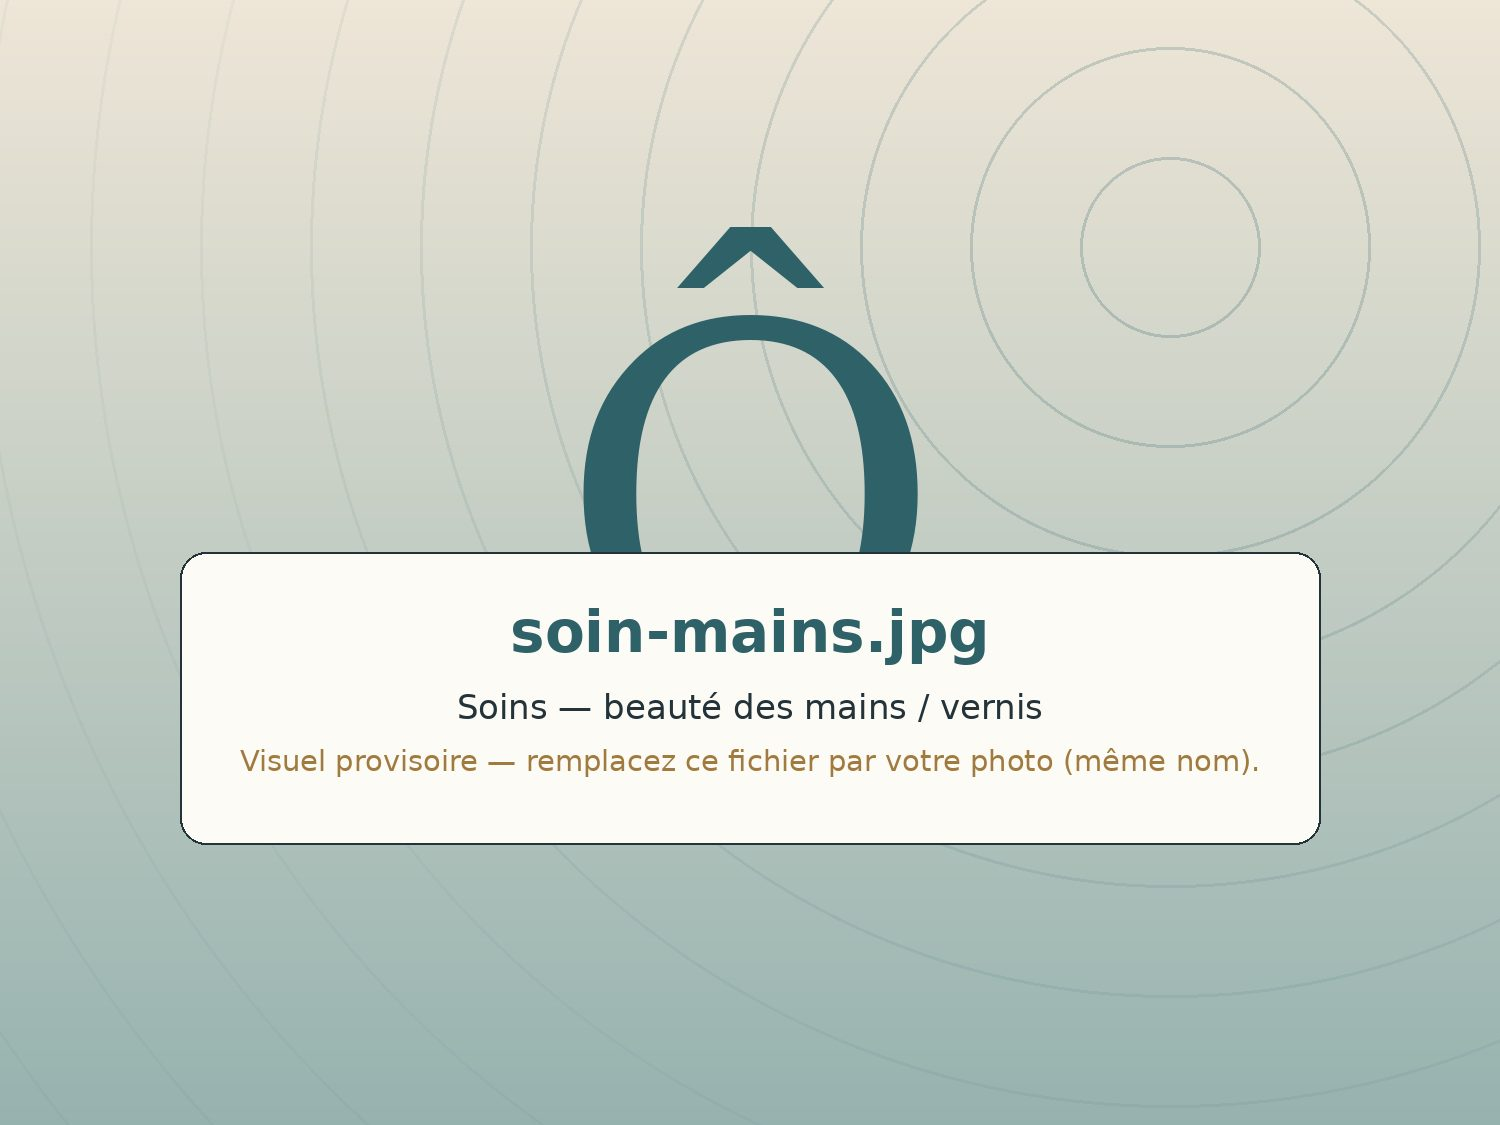
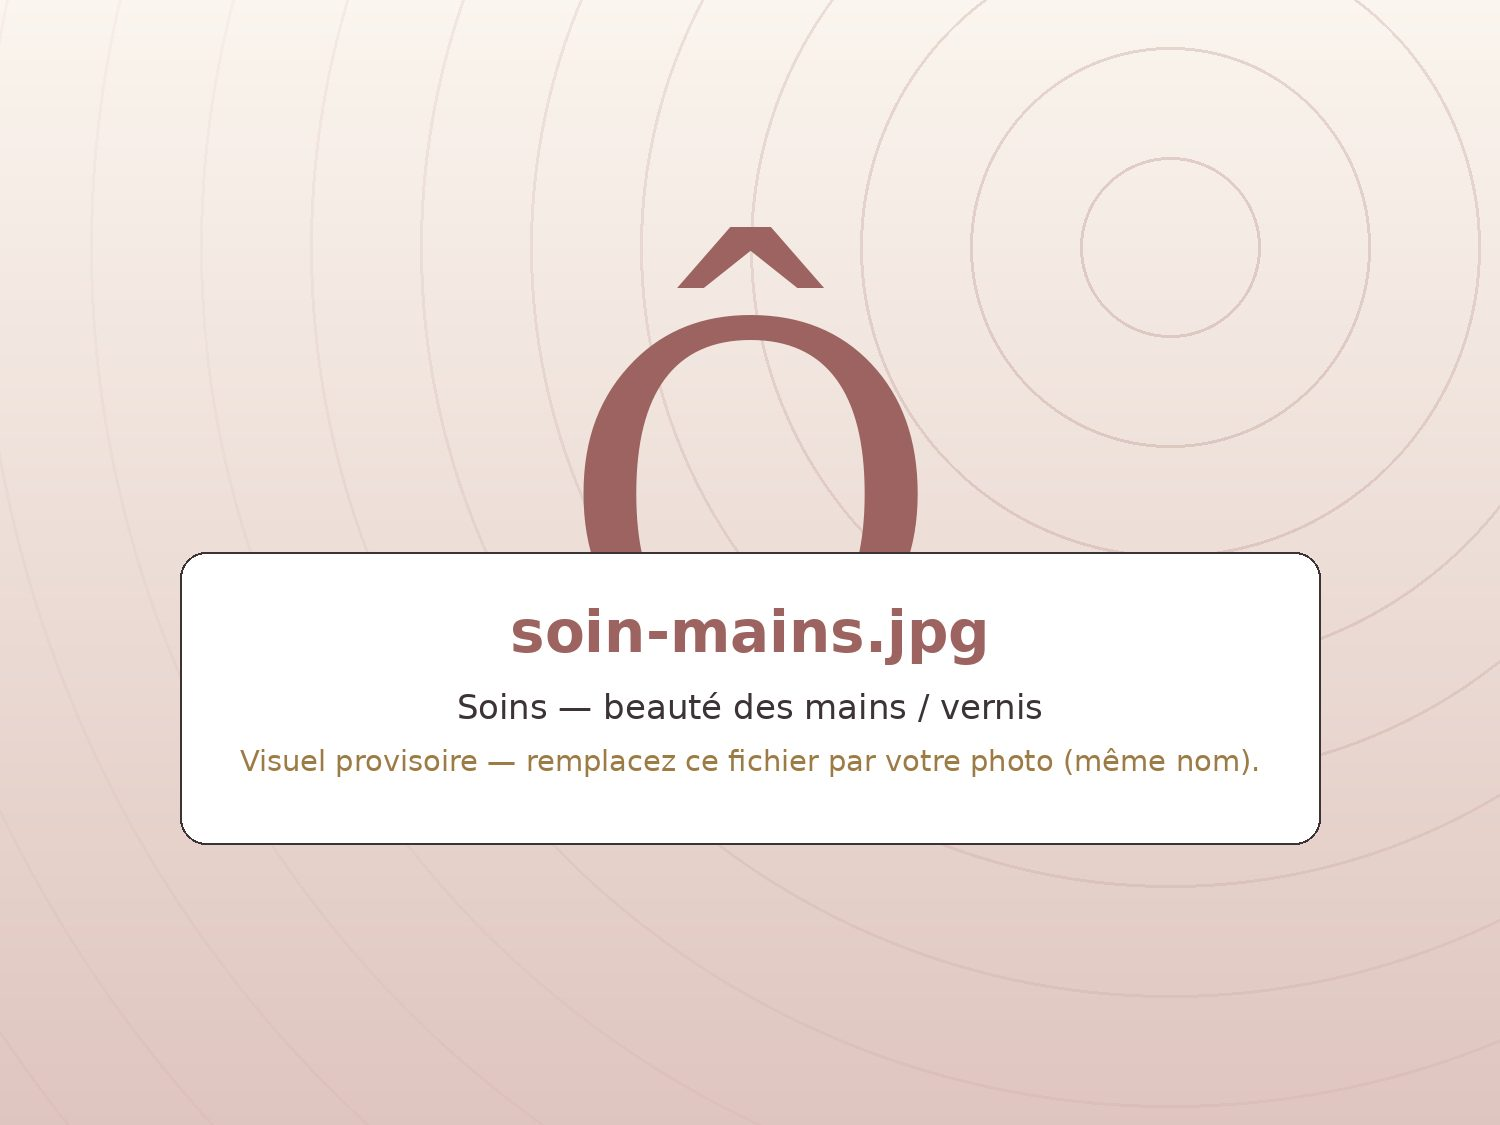
Palette « quartz, crème & blanc »
- Jetons de couleur : fond blanc crème, cartes blanc pur, sections
  « quartz voilé », texte quartz fumé, accent quartz rose, or champagne
- Mode sombre décliné en « quartz fumé » (brun-rose profond)
- Pied de page brun quartz, favicon et visuels provisoires assortis
- Robustesse : marges par défaut des <figure> réinitialisées, hauteur
  des photos en auto (l'aspect-ratio pilote le recadrage)

Claude-Session: https://claude.ai/code/session_01KHfXKJBJfizCz2Q4WucXuv

diff --git a/assets/css/style.css b/assets/css/style.css
@@ -1,6 +1,6 @@
 /* ==========================================================================
    Ô SUBLIME — institut de beauté & spa privatif, Jallais (Beaupréau-en-Mauges)
-   Design « Lin & eau profonde » : spa lumineux, minéral, chaleureux.
+   Design « Quartz, crème & blanc » : spa lumineux, poudré, minéral.
    --------------------------------------------------------------------------
    Toute la palette se règle ici. Le site suit le réglage clair/sombre de
    l'appareil (prefers-color-scheme) ; le mode clair est la référence.
@@ -8,18 +8,18 @@
 
 :root {
   /* — Palette (mode clair) — */
-  --paper: #F6F1E8;        /* fond : lin chaud                  */
-  --paper-2: #EEE6D7;      /* sections alternées                */
-  --card: #FDFBF5;         /* cartes, panneaux                  */
-  --ink: #24333A;          /* texte : bleu-noir d'eau profonde  */
-  --soft: #52646B;         /* texte secondaire                  */
-  --accent: #2F6169;       /* eau profonde : boutons, liens     */
-  --accent-2: #24505A;     /* survol                            */
-  --on-accent: #F8F5EE;    /* texte posé sur l'accent           */
-  --brass: #A07A3E;        /* laiton : kickers, numéros, filets */
-  --line: rgba(36, 51, 58, .16);
-  --halo: rgba(47, 97, 105, .10);
-  --shadow: 0 18px 40px -18px rgba(36, 51, 58, .28);
+  --paper: #FBF8F3;        /* fond : blanc crème                    */
+  --paper-2: #F5EBE6;      /* sections alternées : quartz voilé     */
+  --card: #FFFFFF;         /* cartes, panneaux : blanc pur          */
+  --ink: #3B3336;          /* texte : quartz fumé profond           */
+  --soft: #756A6D;         /* texte secondaire                      */
+  --accent: #9C6361;       /* quartz rose profond : boutons, liens  */
+  --accent-2: #84504F;     /* survol                                */
+  --on-accent: #FFF9F5;    /* texte posé sur l'accent               */
+  --brass: #9C7B45;        /* or champagne : kickers, numéros       */
+  --line: rgba(59, 51, 54, .15);
+  --halo: rgba(156, 99, 97, .09);
+  --shadow: 0 18px 40px -18px rgba(59, 51, 54, .26);
 
   /* — Typographies — */
   --serif: "Cormorant Garamond", "Georgia", serif;
@@ -36,17 +36,17 @@
 
 @media (prefers-color-scheme: dark) {
   :root {
-    --paper: #101B1E;
-    --paper-2: #0C1518;
-    --card: #17262A;
-    --ink: #EDE6D8;
-    --soft: #9FB0B0;
-    --accent: #8FC2C6;
-    --accent-2: #A9D2D5;
-    --on-accent: #0E1B1E;
-    --brass: #CFA968;
-    --line: rgba(237, 230, 216, .15);
-    --halo: rgba(143, 194, 198, .10);
+    --paper: #211B1E;
+    --paper-2: #1A1518;
+    --card: #2B2327;
+    --ink: #F1EAE4;
+    --soft: #B5A7A7;
+    --accent: #D9A8A1;
+    --accent-2: #E5BDB7;
+    --on-accent: #2A1D1E;
+    --brass: #D4B078;
+    --line: rgba(241, 234, 228, .15);
+    --halo: rgba(217, 168, 161, .10);
     --shadow: 0 18px 40px -18px rgba(0, 0, 0, .55);
     color-scheme: dark;
   }
@@ -72,6 +72,7 @@ body {
 }
 
 img { max-width: 100%; display: block; }
+figure { margin: 0; }
 
 h1, h2, h3, h4 {
   font-family: var(--serif);
@@ -159,7 +160,7 @@ em, .accent-i { font-style: italic; }
 }
 .site-head.is-scrolled {
   border-bottom-color: var(--line);
-  box-shadow: 0 10px 30px -22px rgba(36, 51, 58, .45);
+  box-shadow: 0 10px 30px -22px rgba(59, 51, 54, .45);
 }
 
 .site-head__row {
@@ -268,7 +269,7 @@ em, .accent-i { font-style: italic; }
   background: var(--paper-2);
   box-shadow: var(--shadow);
 }
-.photo img { width: 100%; height: 100%; object-fit: cover; }
+.photo img { width: 100%; height: auto; object-fit: cover; }
 .photo--arch { border-radius: var(--r-pill) var(--r-pill) var(--r-lg) var(--r-lg); }
 .photo--43 img { aspect-ratio: 4 / 3; }
 .photo--32 img { aspect-ratio: 3 / 2; }
@@ -523,8 +524,8 @@ em, .accent-i { font-style: italic; }
    ========================================================================== */
 
 .site-foot {
-  background: #16252B;
-  color: #D8DDD3;
+  background: #2E2528;
+  color: #E6DCD6;
   padding: clamp(52px, 7vw, 84px) 0 34px;
   margin-top: clamp(56px, 8vw, 96px);
 }
@@ -539,16 +540,16 @@ em, .accent-i { font-style: italic; }
   display: grid; gap: 36px;
   grid-template-columns: minmax(0, 1.4fr) repeat(2, minmax(0, 1fr));
   padding-bottom: 40px;
-  border-bottom: 1px solid rgba(216, 221, 211, .18);
+  border-bottom: 1px solid rgba(230, 220, 214, .18);
 }
-.foot-brand .brand__mark { color: #CFA968; }
+.foot-brand .brand__mark { color: #D4B078; }
 .foot-brand .brand { color: inherit; margin-bottom: 16px; }
 .foot-brand p { color: inherit; opacity: .75; font-size: .95rem; max-width: 34em; }
 
 .site-foot h4 {
   font: 700 .72rem/1 var(--sans);
   letter-spacing: .22em; text-transform: uppercase;
-  color: #CFA968; margin: 6px 0 18px;
+  color: #D4B078; margin: 6px 0 18px;
 }
 .site-foot ul { margin: 0; padding: 0; list-style: none; display: grid; gap: 10px; font-size: .96rem; }
 .site-foot ul span { opacity: .72; }

diff --git a/README.md b/README.md
@@ -6,10 +6,11 @@ au cœur des Mauges, entre Cholet, Nantes et Angers.
 
 ## Le parti pris de design
 
-**« Lin & eau profonde »** — un spa lumineux, minéral et chaleureux :
+**« Quartz, crème & blanc »** — un spa lumineux, poudré et minéral :
 
-- Fond **lin chaud**, texte **bleu-noir d'eau profonde**, accent **vert d'eau profond**
-  (boutons, liens) et touches **laiton** (kickers, numéros, filets) ;
+- Fond **blanc crème**, cartes **blanc pur**, sections alternées **quartz voilé**,
+  texte **quartz fumé profond**, accent **quartz rose** (boutons, liens) et touches
+  **or champagne** (kickers, numéros, filets) ;
 - Typographies : **Cormorant Garamond** (titres, italiques précieuses) et
   **Manrope** (texte et interface) ;
 - Motif maison : les **ondulations concentriques** du « Ô », comme une goutte
@@ -17,7 +18,7 @@ au cœur des Mauges, entre Cholet, Nantes et Angers.
 - Illustrations au trait (plume, éclair, regard, soleil, cœur) pour les soins
   sans photo ;
 - **Mode sombre automatique** : le site suit le réglage de l'appareil
-  (`prefers-color-scheme`), en camaïeu nuit d'eau ;
+  (`prefers-color-scheme`), en camaïeu « quartz fumé » ;
 - Toutes les couleurs sont des variables CSS en tête de `assets/css/style.css`
   (`--paper`, `--ink`, `--accent`, `--brass`…) : la palette entière se change là.
 
